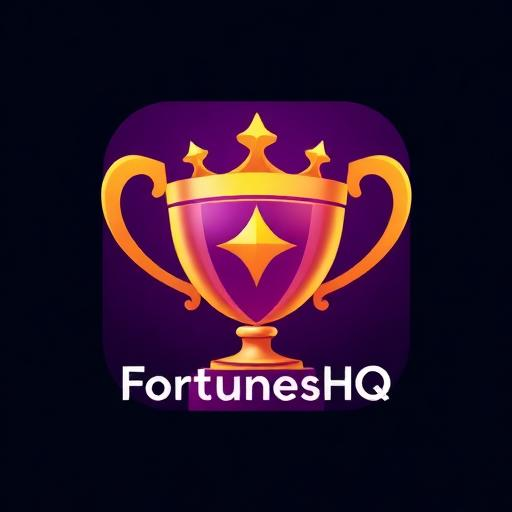
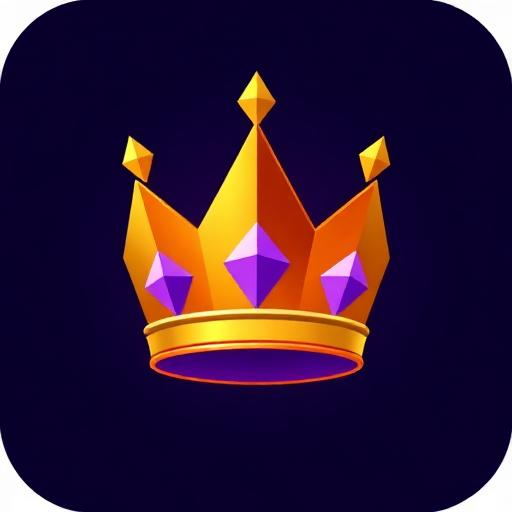
Changes

diff --git a/src/pages/AuthPage.tsx b/src/pages/AuthPage.tsx
@@ -1,7 +1,7 @@
 import { useState, useEffect } from 'react';
 import { useNavigate } from 'react-router-dom';
 import { supabase } from '@/integrations/supabase/client';
-import { Zap, Mail, User, ArrowRight, ArrowLeft, Gift, X } from 'lucide-react';
+import { Crown, Mail, User, ArrowRight, ArrowLeft, Gift, X } from 'lucide-react';
 import { z } from 'zod';
 import { FunctionsHttpError, FunctionsFetchError, FunctionsRelayError } from '@supabase/supabase-js';
 import { InputOTP, InputOTPGroup, InputOTPSlot } from '@/components/ui/input-otp';
@@ -357,11 +357,11 @@ export const AuthPage = () => {
 
       {/* Logo */}
       <div className="mb-8 text-center">
-        <div className="w-20 h-20 rounded-3xl bg-primary/20 flex items-center justify-center mx-auto mb-4 glow-primary">
-          <Zap className="w-10 h-10 text-primary" />
+        <div className="w-20 h-20 rounded-3xl bg-gold/20 flex items-center justify-center mx-auto mb-4 glow-gold">
+          <Crown className="w-10 h-10 text-gold" />
         </div>
         <h1 className="text-3xl font-black text-foreground">
-          <span className="text-primary">Fortunes</span>HQ
+          <span className="text-foreground">Fortunes</span><span className="text-gold">HQ</span>
         </h1>
         <p className="text-sm text-muted-foreground mt-1">Share the pool or Take it all</p>
       </div>

diff --git a/src/components/Logo.tsx b/src/components/Logo.tsx
@@ -1,0 +1,40 @@
+import { Crown } from 'lucide-react';
+
+interface LogoProps {
+  size?: 'sm' | 'md' | 'lg' | 'xl';
+  showIcon?: boolean;
+  className?: string;
+}
+
+export const Logo = ({ size = 'md', showIcon = true, className = '' }: LogoProps) => {
+  const sizeClasses = {
+    sm: 'text-lg',
+    md: 'text-xl',
+    lg: 'text-2xl',
+    xl: 'text-3xl',
+  };
+
+  const iconSizes = {
+    sm: 'w-4 h-4',
+    md: 'w-5 h-5',
+    lg: 'w-6 h-6',
+    xl: 'w-8 h-8',
+  };
+
+  return (
+    <div className={`flex items-center gap-2 ${className}`}>
+      {showIcon && (
+        <div className="relative">
+          <Crown className={`${iconSizes[size]} text-gold`} />
+          <div className="absolute inset-0 blur-sm">
+            <Crown className={`${iconSizes[size]} text-gold/50`} />
+          </div>
+        </div>
+      )}
+      <span className={`font-black tracking-tight ${sizeClasses[size]}`}>
+        <span className="text-foreground">Fortunes</span>
+        <span className="text-gold">HQ</span>
+      </span>
+    </div>
+  );
+};

diff --git a/index.html b/index.html
@@ -11,6 +11,7 @@
     <meta name="apple-mobile-web-app-status-bar-style" content="black-translucent" />
     <meta name="apple-mobile-web-app-title" content="FortunesHQ" />
     <link rel="manifest" href="/manifest.json" />
+    <link rel="icon" type="image/png" href="/favicon.png" />
     <link rel="apple-touch-icon" href="/pwa-192x192.png" />
 
     <!-- Open Graph / Facebook -->
@@ -19,8 +20,8 @@
     <meta property="og:title" content="FortunesHQ - Play, Win, Celebrate" />
     <meta property="og:description" content="Join FortunesHQ and win big! Compete in Fastest Finger and Lucky Pool games for real cash prizes." />
     <meta property="og:image" content="/og-image.png" />
-    <meta property="og:image:width" content="1216" />
-    <meta property="og:image:height" content="640" />
+    <meta property="og:image:width" content="1920" />
+    <meta property="og:image:height" content="1024" />
     <meta property="og:site_name" content="FortunesHQ" />
 
     <!-- Twitter -->

diff --git a/src/components/moderator/ModeratorSidebar.tsx b/src/components/moderator/ModeratorSidebar.tsx
@@ -10,6 +10,7 @@ import {
 } from 'lucide-react';
 import { useState } from 'react';
 import { cn } from '@/lib/utils';
+import { Logo } from '@/components/Logo';
 
 const navItems = [
   { label: 'Dashboard', icon: LayoutDashboard, path: '/moderator' },
@@ -33,11 +34,8 @@ export const ModeratorSidebar = () => {
       <div className="p-4 border-b border-border flex items-center justify-between">
         {!collapsed && (
           <div>
-            <h1 className="text-lg font-black text-foreground flex items-center gap-2">
-              <ShieldCheck className="w-5 h-5 text-blue-400" />
-              <span className="text-blue-400">Mod</span>Panel
-            </h1>
-            <p className="text-[10px] text-muted-foreground uppercase tracking-widest">Moderator Console</p>
+            <Logo size="md" />
+            <p className="text-[10px] text-muted-foreground uppercase tracking-widest mt-1">Moderator Console</p>
           </div>
         )}
         <button 

diff --git a/src/components/admin/AdminSidebar.tsx b/src/components/admin/AdminSidebar.tsx
@@ -19,6 +19,7 @@ import {
 } from 'lucide-react';
 import { useState } from 'react';
 import { cn } from '@/lib/utils';
+import { Logo } from '@/components/Logo';
 
 const navItems = [
   { label: 'Dashboard', icon: LayoutDashboard, path: '/admin' },
@@ -53,10 +54,8 @@ export const AdminSidebar = () => {
       <div className="p-4 border-b border-border flex items-center justify-between">
         {!collapsed && (
           <div>
-            <h1 className="text-lg font-black text-foreground">
-              <span className="text-primary">Fortunes</span>HQ
-            </h1>
-            <p className="text-[10px] text-muted-foreground uppercase tracking-widest">Admin Console</p>
+            <Logo size="md" />
+            <p className="text-[10px] text-muted-foreground uppercase tracking-widest mt-1">Admin Console</p>
           </div>
         )}
         <button 
